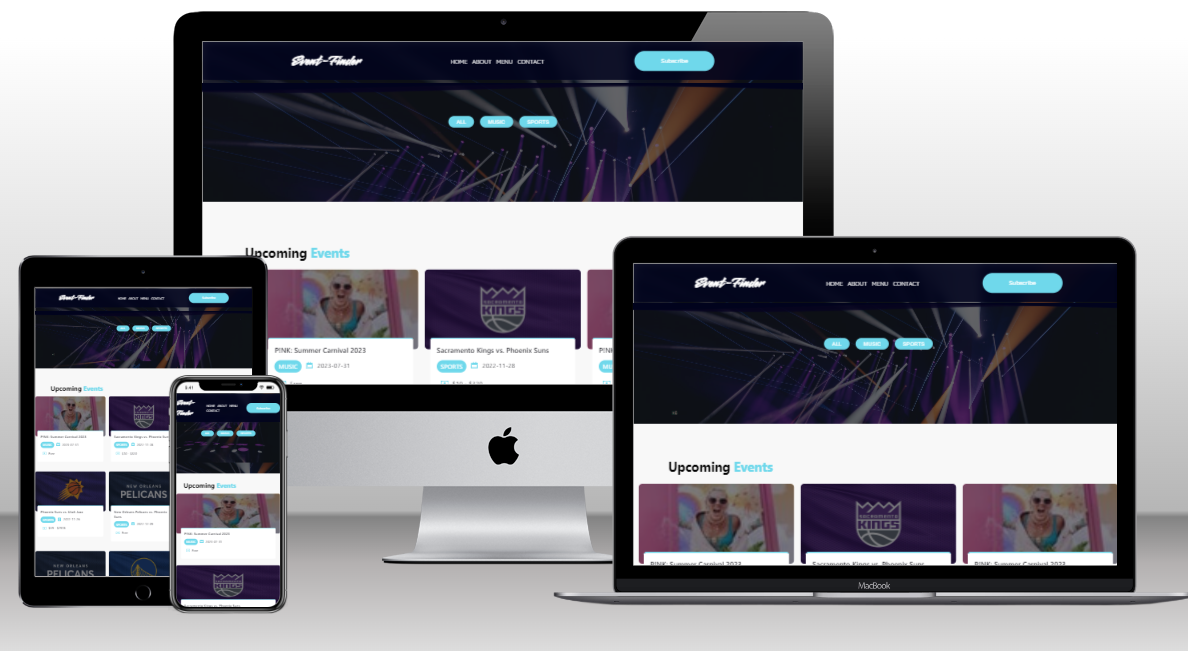
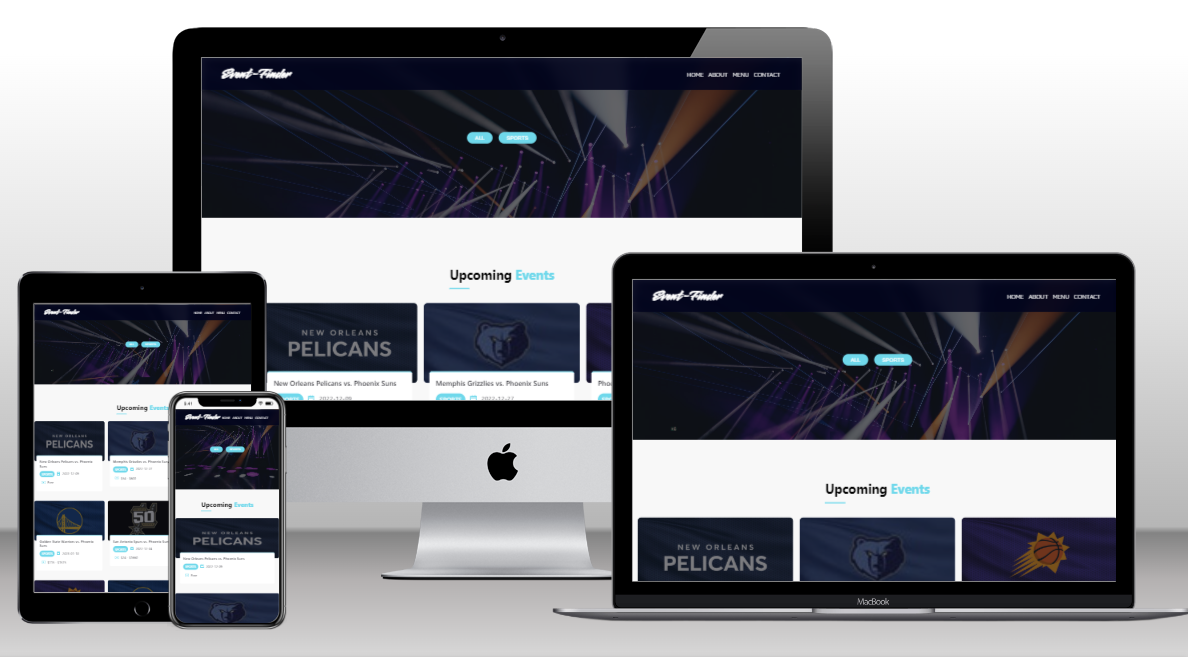
Add Correct works link

diff --git a/js/projectdata.js b/js/projectdata.js
@@ -1,19 +1,20 @@
 const worksData = [
   {
     id: 1,
-    title: 'Bunch Template',
-    img: ['img/portfolio/bunch-1.png'],
-    github: 'https://desorgui.github.io',
-    live: 'https://desorgui.github.io',
-    language: 'HTML, CSS, JS',
+    title: 'Car Booking App',
+    img: ['img/portfolio/car-booking.png'],
+    github: 'https://github.com/desorgui/Car-Booking-Front-end',
+    live: 'https://github.com/desorgui/Car-Booking-Front-end',
+    tech: 'React, Redux, JS, Ruby, Rails, Tailwind',
   },
   {
     id: 2,
     title: 'Wizzy Beauty template',
-    img: ['img/portfolio/beauty-1.png', 'img/portfolio/beauty-2.png'],
-    github: 'https://desorgui.github.io',
-    live: 'https://desorgui.github.io',
-    language: 'HTML, CSS, JS',
+    title: 'Event Finder react app',
+    img: ['img/portfolio/event-finder-1.png'],
+    github: 'https://github.com/desorgui/Event-Finder',
+    live: 'https://desorgui-eventfinder.netlify.app/',
+    tech: 'React, Redux, JS, API, CSS',
   },
   {
     id: 3,
@@ -21,55 +22,55 @@ const worksData = [
     img: ['img/portfolio/learn-1.png', 'img/portfolio/learn-2.png'],
     github: 'https://desorgui.github.io',
     live: 'https://desorgui.github.io',
-    language: 'HTML, CSS, JS',
+    tech: 'HTML, CSS, JS',
   },
   {
     id: 4,
     title: 'Wizzy Edu template',
     img: ['img/portfolio/edu-1.png', 'img/portfolio/edu-2.png', 'img/portfolio/edu-3.png', 'img/portfolio/edu-4.png'],
-    github: 'https://desorgui.github.io',
-    live: 'https://desorgui.github.io',
-    language: 'HTML, CSS, JS',
+    github: 'https://wizzy-edu.netlify.app/',
+    live: 'https://wizzy-edu.netlify.app/',
+    tech: 'HTML, CSS, JS',
   },
   {
     id: 5,
-    title: 'Event Finder react app',
-    img: ['img/portfolio/event-finder-1.png'],
-    github: 'https://desorgui.github.io',
-    live: 'https://desorgui.github.io',
-    language: 'HTML, CSS, JS',
+    title: 'Wizzy Beauty template',
+    img: ['img/portfolio/beauty-1.png', 'img/portfolio/beauty-2.png'],
+    github: 'https://wizzy-beauty.netlify.app/',
+    live: 'https://wizzy-beauty.netlify.app/',
+    tech: 'HTML, CSS, JS',
   },
   {
     id: 6,
-    title: 'Wizzy News template',
-    img: ['img/portfolio/news-1.png', 'img/portfolio/news-2.png'],
-    github: 'https://desorgui.github.io',
-    live: 'https://desorgui.github.io',
-    language: 'HTML, CSS, JS',
+    title: 'Book Store React App',
+    img: ['img/portfolio/book-store.png', 'img/portfolio/news-2.png'],
+    github: 'https://github.com/desorgui/book-store/',
+    live: 'https://desorgui-bookstore.netlify.app/',
+    tech: 'React, Redux, JS, HTML, CSS',
   },
   {
     id: 7,
     title: 'Bunch Business template',
     img: ['img/portfolio/bunch-1.png', 'img/portfolio/bunch-2.png', 'img/portfolio/bunch-3.png', 'img/portfolio/bunch-4.png'],
-    github: 'https://desorgui.github.io',
-    live: 'https://desorgui.github.io',
-    language: 'HTML, CSS, JS',
+    github: 'https://bunch-template.netlify.app/',
+    live: 'https://bunch-template.netlify.app/',
+    tech: 'HTML, CSS, JS',
   },
   {
     id: 8,
     title: 'Todo list react app',
     img: ['img/portfolio/todo-list.png'],
-    github: 'https://desorgui.github.io',
-    live: 'https://desorgui.github.io',
-    language: 'HTML, CSS, JS',
+    github: 'https://github.com/desorgui/react-todo-app',
+    live: 'https://react-todo-desorgui.netlify.app/',
+    tech: 'React, Javascript, css',
   },
   {
     id: 9,
-    title: 'Project 9',
-    img: ['img/portfolio/todo-list.png'],
-    github: 'https://desorgui.github.io',
-    live: 'https://desorgui.github.io',
-    language: 'HTML, CSS, JS',
+    title: 'Wizzy News Template',
+    img: ['img/portfolio/news-1.png', 'img/portfolio/news-2.png'],
+    github: 'https://wizzy-news.netlify.app/',
+    live: 'https://wizzy-news.netlify.app/',
+    tech: 'HTML, CSS, JS',
   },
 ];
 
@@ -211,13 +212,13 @@ const displayWorks = (works = []) => {
                 <i class="fa fa-file-text-o pr-2"></i><span class="project-label">Project </span>: <span class="ft-wt-600 uppercase">${work.title}</span>
             </div>
             <div class="col-6 mb-2">
-                <i class="fa fa-user-o pr-2"></i><span class="project-label">Code </span>: <span class="ft-wt-600 uppercase">${work.github}</span>
+                <i class="fa fa-user-o pr-2"></i><span class="project-label">Code </span>: <span class="ft-wt-600 uppercase"><a href="${work.github}" target="_blank">Github link</a></span>
             </div>
             <div class="col-6 mb-2">
-                <i class="fa fa-code pr-2"></i><span class="project-label">Langages </span>: <span class="ft-wt-600 uppercase">${work.language}</span>
+                <i class="fa fa-code pr-2"></i><span class="project-label">Technology </span>: <span class="ft-wt-600 uppercase">${work.tech}</span>
             </div>
             <div class="col-6 mb-2">
-                <i class="fa fa-external-link pr-2"></i><span class="project-label">Preview </span>: <span class="ft-wt-600 uppercase"><a href="#" target="_blank">${work.live}</a></span>
+                <i class="fa fa-external-link pr-2"></i><span class="project-label">Preview </span>: <span class="ft-wt-600 uppercase"><a href="${work.live}" target="_blank">Live demo link</a></span>
             </div>
         </div>
     </figcaption>

diff --git a/index.html b/index.html
@@ -263,6 +263,12 @@
                 <!-- Portfolio Navigation Ends -->
             </section>
         </div>
+        <!-- Check all repo on Github button -->
+        <div class="row">
+            <div class="col-12 text-center">
+                <a href="https://github.com/desorgui" class="btn btn-primary btn-lg mt-5 p-3" target="_blank">See more on Github</a>
+            </div>
+        </div>
     </section>
 </div>
             <!--=========| / Portfolio Section |=========-->

diff --git a/css/style.css b/css/style.css
@@ -476,7 +476,7 @@ body.light hr.separator {
   }
 
 
-/* [ Pages ] */
+/* [ Home Picture ] */
 /*================================================== */
 
 .home-gallery {
@@ -491,8 +491,6 @@ body.light hr.separator {
   }
   
   .imm{
-    width: 50rem;
-    height: 30rem;
     position: fixed;
     animation: animate 20s linear infinite reverse;
   }
